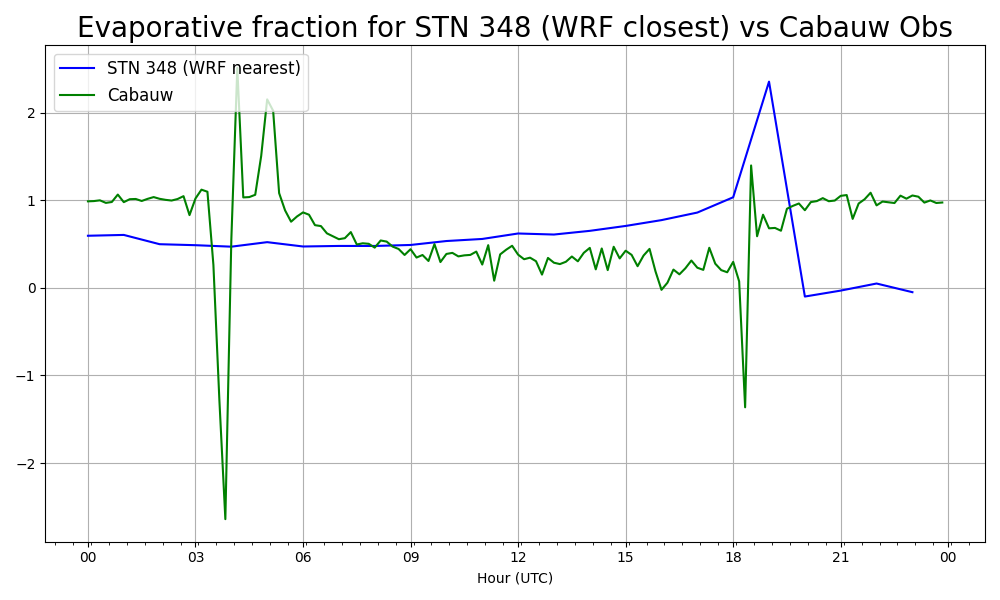
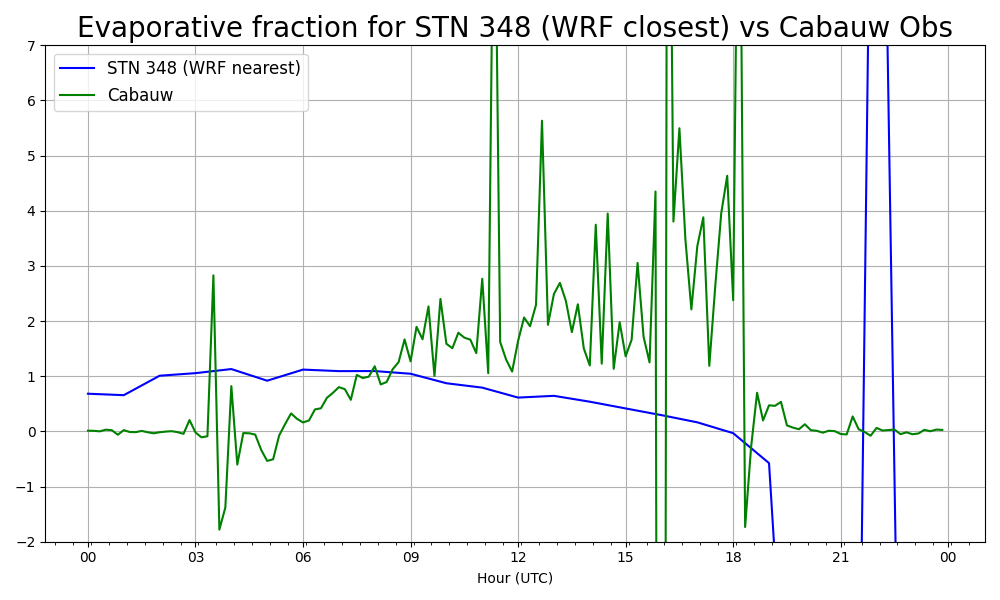
Actualización automática del proyecto y environment.yml

diff --git a/scripts/plots/plot_rapido_land_use.py b/scripts/plots/plot_rapido_land_use.py
@@ -1,0 +1,108 @@
+
+
+
+import numpy as np
+import matplotlib.pyplot as plt
+from netCDF4 import Dataset
+from wrf import getvar, to_np, latlon_coords, cartopy_xlim, cartopy_ylim,ll_to_xy
+import cartopy.feature as cfeature
+import netCDF4 as nc
+import cartopy.crs as ccrs
+from matplotlib import cm
+from matplotlib.colors import BoundaryNorm
+
+# Open the WRFOUT file
+wrf_file = Dataset('/home/poc/Documentos/Projects/SB_SCALING-Netherlands/data/Models/WRF/PrelimSim_I/wrfout_d02_2014-07-16_00.nc')
+
+# Get the LU_INDEX variable (MODIS Land Use Index)
+lu_index = getvar(wrf_file, "LU_INDEX", timeidx=0)
+
+# Obtén las coordenadas de latitud y longitud
+lats, lons = latlon_coords(lu_index)
+
+
+# MODIS Land Use Labels
+modis_lu_labels = {
+    1: "Evergreen Needleleaf Forest",
+    2: "Evergreen Broadleaf Forest",
+    3: "Deciduous Needleleaf Forest",
+    4: "Deciduous Broadleaf Forest",
+    5: "Mixed Forest",
+    6: "Closed Shrublands",
+    7: "Open Shrublands",
+    8: "Woody Savannas",
+    9: "Savannas",
+    10: "Grasslands",
+    11: "Permanent Wetlands",
+    12: "Croplands",
+    13: "Urban and Built-Up",
+    14: "Cropland/Natural Vegetation Mosaic",
+    15: "Snow and Ice",
+    16: "Barren or Sparsely Vegetated",
+    17: "Water Bodies",
+    18: "Wooded Tundra",
+    19: "Mixed Tundra",
+    20: "Bare Ground Tundra"
+}
+
+
+ds = nc.Dataset('/home/poc/Documentos/Projects/SB_SCALING-Netherlands/data/Models/WRF/PrelimSim_I/wrfout_d02_2014-07-16_00.nc')
+lu_index = getvar(ds, "LU_INDEX")
+# Convertir las coordenadas geográficas (lat, lon) a índices de la malla WRF
+x_y = ll_to_xy(ds, 51.971, 4.926)
+
+# Convertir los índices x e y a formato numpy
+x_idx, y_idx = to_np(x_y)
+
+# Extraer las coordenadas lat/lon de toda la malla
+lats, lons = latlon_coords(lu_index)
+
+# Extraer las coordenadas del punto más cercano
+lat_punto_malla = to_np(lats[y_idx, x_idx])
+lon_punto_malla = to_np(lons[y_idx, x_idx])
+
+
+
+# Obtener los valores únicos de LU_INDEX que están presentes en los datos
+unique_lu_index = np.unique(to_np(lu_index))
+
+# Crear el gráfico con proyección geográfica
+fig, ax = plt.subplots(figsize=(15, 10), subplot_kw={'projection': ccrs.PlateCarree()})
+
+# Crear un colormap discreto (20 colores, uno para cada categoría)
+cmap = cm.get_cmap('tab20', 20)
+
+# Definir los límites para que cada categoría tenga su propio color
+bounds = np.linspace(0.5, 20.5, 21)  # Para abarcar de 1 a 20
+norm = BoundaryNorm(bounds, cmap.N)
+
+# Plotear el uso del suelo (LU_INDEX)
+c = ax.pcolormesh(to_np(lons), to_np(lats), to_np(lu_index), cmap=cmap, norm=norm, shading='auto')
+breakpoint()
+ax.scatter(lon_punto_malla, lat_punto_malla, marker='o', s=5, color='blue', transform=ccrs.PlateCarree(), label = f'Cabauw; LU_INDEX = {int(lu_index[y_idx, x_idx])}')
+# Añadir características geográficas
+ax.add_feature(cfeature.COASTLINE)
+ax.add_feature(cfeature.BORDERS, linestyle=':')
+ax.add_feature(cfeature.LAND)
+ax.add_feature(cfeature.OCEAN)
+ax.add_feature(cfeature.LAKES, alpha=0.5)
+
+# Ajustar los límites del mapa a los datos de lat/lon
+ax.set_xlim(np.min(lons), np.max(lons))
+ax.set_ylim(np.min(lats), np.max(lats))
+
+# Crear la barra de colores, asegurando que haya un tick centrado en cada categoría
+ticks = np.arange(1, 21)  # Ticks del 1 al 20
+cbar = plt.colorbar(c, ax=ax, orientation='vertical', pad=0.05, boundaries=bounds, ticks=ticks, shrink = 0.8)
+cbar.set_label('LU_INDEX')
+
+# Asignar las etiquetas de cada categoría al tick correspondiente
+cbar.ax.set_yticklabels([f"{i}: {modis_lu_labels[i]}" for i in range(1, 21)])
+
+
+# Título y mostrar gráfico
+ax.set_title('MODIS Land Use Map (LU_INDEX)')
+ax.legend()
+plt.tight_layout()
+
+plt.savefig('figs/ts/prueba_2_LUINDEX.png', dpi = 1000)

diff --git a/scripts/plots/plot_ts_CABAUW_vs_WRF.py b/scripts/plots/plot_ts_CABAUW_vs_WRF.py
@@ -28,7 +28,7 @@ from processing_data import generate_KNMI_df_STNvsDATETIME, generate_WRF_df_STNv
 var_name = 'Q'
 
 # PARAMETERS KNMI
-var_name_CABAUW = 'TH03'
+var_name_CABAUW = 'TH08'
 var_units = r'm^3/m^3'
 date_of_interest = '2014-07-16'
 
@@ -74,13 +74,13 @@ time_readable = nc.num2date(time, time_units)
 python_dates = [datetime(d.year, d.month, d.day, d.hour, d.minute, d.second, d.microsecond) for d in time_readable]
 
 # Extrae la humedad del suelo a 0.03 m
-TH03 = dataset.variables[var_name_CABAUW][:]  # Soil water content at 0.03 m depth
+TH08 = dataset.variables[var_name_CABAUW][:]  # Soil water content at 0.03 m depth
 
 # Cierra el dataset
 dataset.close()
 
 
-df = pd.DataFrame(data={"TH03": TH03}, index=python_dates)
+df = pd.DataFrame(data={"TH08": TH08}, index=python_dates)
 # Muestra los tiempos y los datos de humedad del suelo
 
 
@@ -123,7 +123,7 @@ plt.figure(figsize=(10, 6))
 
 
 plt.plot(df_resultado_WRF_land.index, df_resultado_WRF_land, label=f'SH20 STN {STR_CABAUW} (WRF nearest)', color = 'blue')
-plt.plot(df.loc['2014-07-16'].index, df.loc['2014-07-16'], label=f'TH03 Cabauw', color = 'green')
+plt.plot(df.loc['2014-07-16'].index, df.loc['2014-07-16'], label=f'TH08 Cabauw', color = 'green')
 
 # Añadimos etiquetas y título
 plt.xlabel('Hour (UTC)')
@@ -152,6 +152,7 @@ ax.grid(True)
 # Mostramos la gráfica
 plt.tight_layout()
 plt.savefig('figs/ts/Obs-vs-Model/SoilMoisture_WRF-vs-Cabauw_2014-07-16.png')
+plt.close()
 ###############
 
 
@@ -166,8 +167,8 @@ plt.figure(figsize=(10, 6))
 # _rellenado_land_station.index, df_rellenado_land_station, color = 'red', label = 'Filled missing data')
 
 
-plt.plot(df_resultado_WRF_land_EF.index, df_resultado_WRF_land_EF, label=f'STN {STR_CABAUW} (WRF nearest)', color = 'blue')
-plt.plot(EF_data.loc['2014-07-16'].index, EF_data.loc['2014-07-16'], label=f'Cabauw', color = 'green')
+plt.plot(df_resultado_WRF_land_BR.index, df_resultado_WRF_land_BR, label=f'STN {STR_CABAUW} (WRF nearest)', color = 'blue')
+plt.plot(BowenR_data.loc['2014-07-16'].index, BowenR_data.loc['2014-07-16'], label=f'Cabauw', color = 'green')
 
 # Añadimos etiquetas y título
 plt.xlabel('Hour (UTC)')
@@ -190,6 +191,7 @@ ax.xaxis.set_major_formatter(time_fmt)
 
 # Ajuste automático del formato de fecha en el eje x
 ax.grid(True)
+ax.set_ylim([-2, 7])
 
 
 

diff --git a/scripts/plots/plot_wrf_transect.py b/scripts/plots/plot_wrf_transect.py
@@ -70,7 +70,7 @@ for filename in filenames:
     u = getvar(ds, "ua", units="m/s")  # Componente U del viento (m/s)
     v = getvar(ds, "va", units="m/s")  # Componente V del viento (m/s)
     w = getvar(ds, "wa", units="m/s")  # Componente V del viento (m/s)
-
+    breakpoint()
     # Define los puntos de inicio y fin del transecto
     start_point = CoordPair(lat=coords_KNMI_land_and_sea.loc[stn_1]['LAT(north)'], 
                             lon=coords_KNMI_land_and_sea.loc[stn_1]['LON(east)'])
